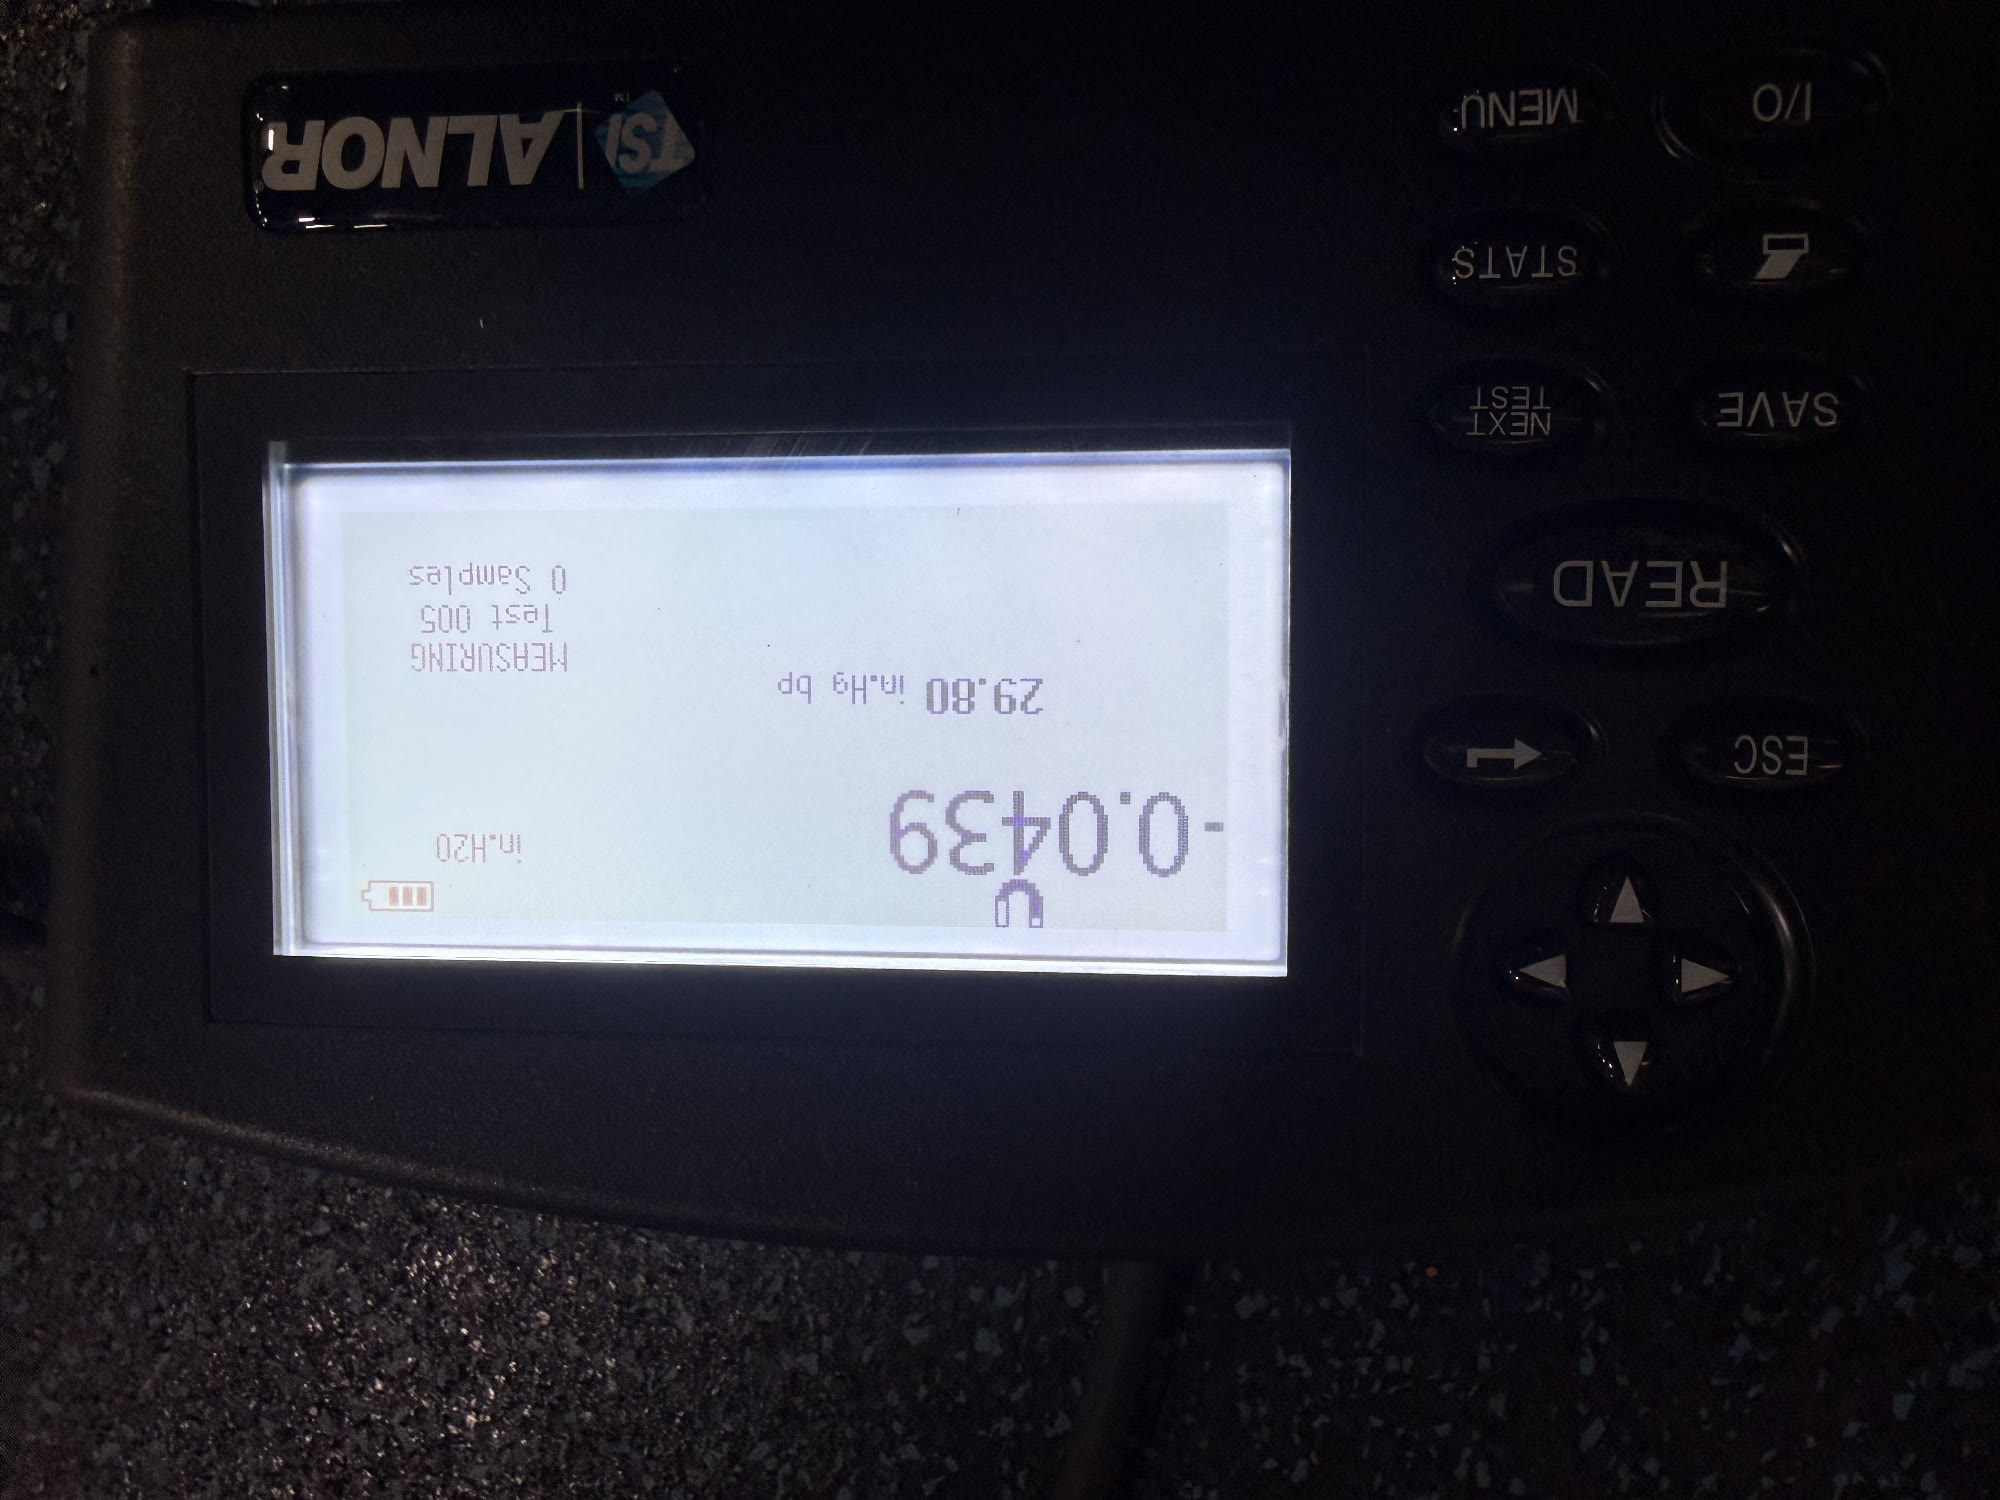
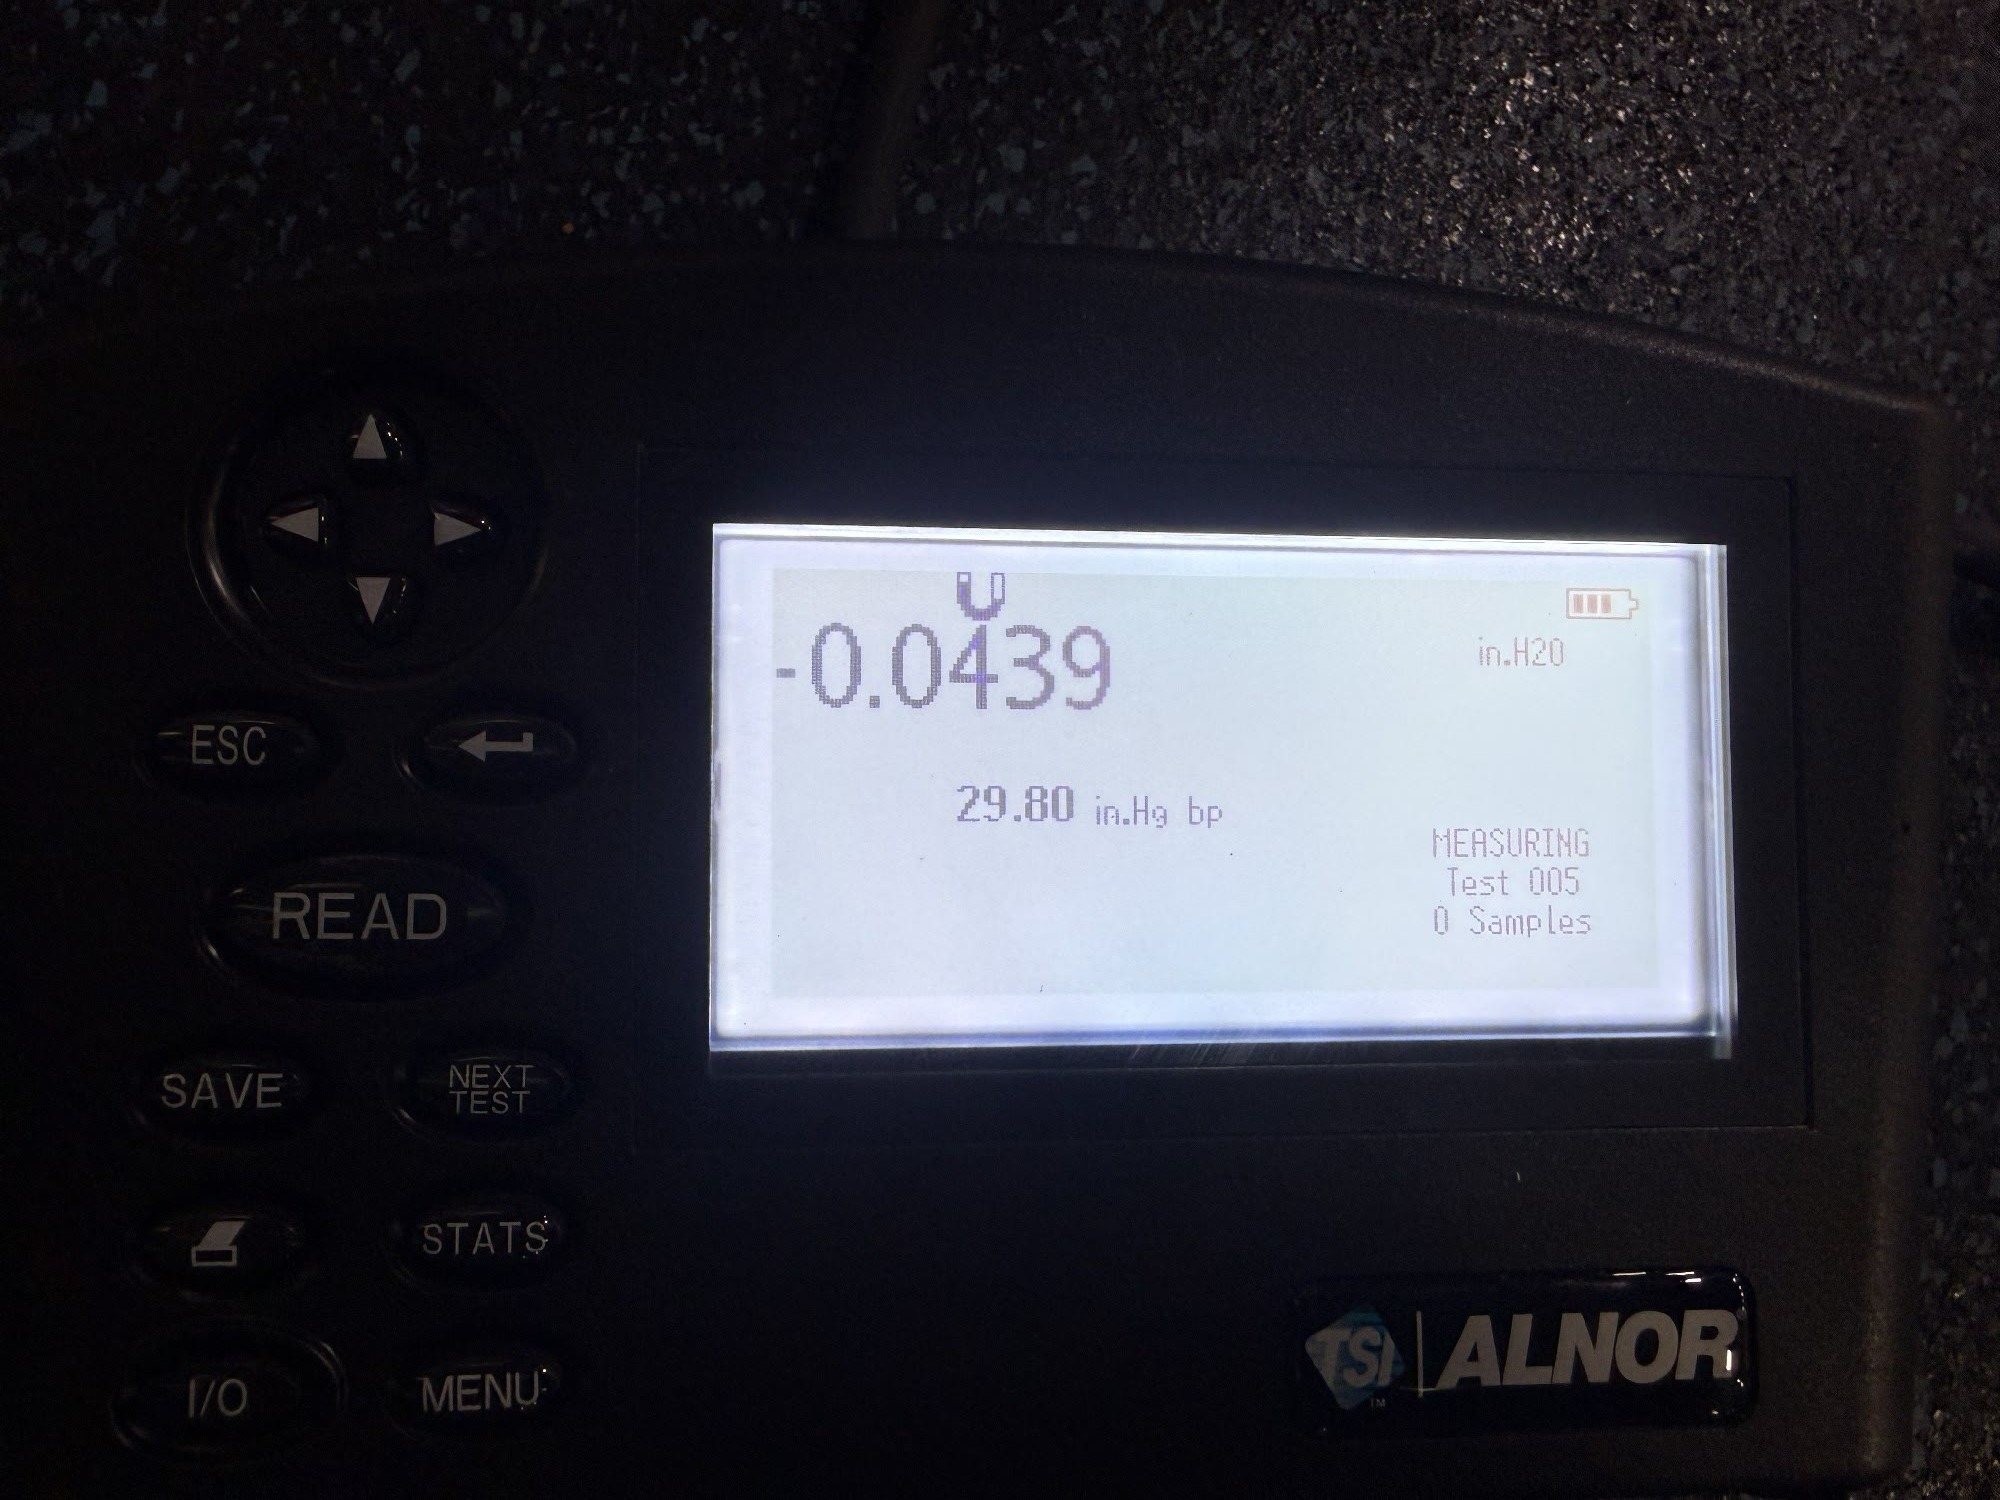
feat: owner-directed refinement pass across home, about, TAB and maintenance

diff --git a/src/styles/global.css b/src/styles/global.css
@@ -1772,14 +1772,6 @@ body.nav-open {
   }
 }
 
-/* Two-column phones: the trailing & More tile spans the row instead of
-   sitting alone in the last cell. */
-@media (max-width: 39.99em) {
-  .brand-box--more {
-    grid-column: 1 / -1;
-  }
-}
-
 @media (min-width: 64em) {
   .brand-list {
     grid-template-columns: repeat(3, minmax(0, 1fr));
@@ -1827,8 +1819,8 @@ body.nav-open {
   opacity: 0.85;
 }
 
-/* TAB field photos: asymmetric editorial layout so portrait and landscape
-   photographs keep their natural aspect without stretched empty cards. */
+/* TAB field photos: three matched proof cards — stacked on mobile, two up on
+   tablet with the third spanning, three across on desktop (one coherent set). */
 .tab-visuals {
   display: grid;
   gap: var(--sp-md);
@@ -1836,11 +1828,23 @@ body.nav-open {
   margin-top: var(--sp-lg);
 }
 
-/* Equal columns: both field photographs share one consistent card shape, so
-   the gallery reads as a balanced pair on desktop and stacks on mobile. */
 @media (min-width: 48em) {
   .tab-visuals {
     grid-template-columns: repeat(2, minmax(0, 1fr));
+  }
+
+  .tab-visuals > :last-child {
+    grid-column: 1 / -1;
+  }
+}
+
+@media (min-width: 64em) {
+  .tab-visuals {
+    grid-template-columns: repeat(3, minmax(0, 1fr));
+  }
+
+  .tab-visuals > :last-child {
+    grid-column: auto;
   }
 }
 
@@ -2424,7 +2428,7 @@ body.nav-open {
 
 @media (min-width: 48em) {
   .about-media-duo {
-    grid-template-columns: minmax(0, 1.5fr) minmax(0, 1fr);
+    grid-template-columns: repeat(2, minmax(0, 1fr));
     gap: var(--sp-lg);
     align-items: start;
   }
@@ -2442,7 +2446,7 @@ body.nav-open {
 }
 
 .about-media--truck img {
-  aspect-ratio: 5 / 4;
+  aspect-ratio: 1 / 1;
 }
 
 .about-media--portrait img {
@@ -3007,6 +3011,11 @@ body.nav-open {
   gap: 0.5rem;
 }
 
+/* The two-line About headline is authored with an intentional line break. */
+.about-hero-heading span {
+  white-space: pre-line;
+}
+
 .hero-flag {
   flex: none;
   width: auto;
@@ -3470,6 +3479,12 @@ body.nav-open {
   .evidence-strip {
     grid-template-columns: repeat(2, minmax(0, 1fr));
   }
+
+  /* An odd final item (e.g. three maintenance photos) spans the row instead
+     of leaving half a row empty. Even counts are unaffected. */
+  .evidence-strip > :last-child:nth-child(odd) {
+    grid-column: 1 / -1;
+  }
 }
 
 .evidence-figure,
@@ -3887,6 +3902,8 @@ body.nav-open {
   border-top: 1px solid var(--c-line-strong);
   border-radius: 0;
   padding: var(--sp-md) 0 var(--sp-xs);
+  justify-items: center;
+  text-align: center;
 }
 
 .tab-scope .fieldnote .card-icon {
@@ -3949,18 +3966,22 @@ body.nav-open {
 }
 
 .brand-grid {
-  display: grid;
-  gap: 1px;
-  background: var(--c-line);
-  border: 1px solid var(--c-line);
+  display: flex;
+  flex-wrap: wrap;
+  justify-content: center;
+  align-items: center;
+  gap: clamp(1.5rem, 3vw, 2.5rem) clamp(2rem, 5vw, 3.75rem);
+  background: none;
+  border: 0;
   margin-top: var(--sp-lg);
 }
 
 .brand-grid .brand-box {
-  background: var(--c-card);
+  background: none;
   border: 0;
   border-radius: 0;
-  min-height: 5.5rem;
+  min-height: 0;
+  padding: 0;
 }
 
 /* Quiet credibility line (hero + finale). */

diff --git a/src/content.config.ts b/src/content.config.ts
@@ -149,6 +149,9 @@ const siteIconEnum = z.enum([
   'users',
   'heart',
   'bulb',
+  'duct-traverse',
+  'pressure-diff',
+  'outside-air',
 ]);
 
 const site = defineCollection({

diff --git a/src/content/site/home.md b/src/content/site/home.md
@@ -12,16 +12,16 @@ metaDescription: >-
   Solutions.
 
 hero:
-  headline: Know what's wrong.
-  headlineAccent: Then decide what to do.
+  headline: HVAC Solutions for
+  headlineAccent: Every Problem
   headlineTail: ''
   lead: >-
     Locally owned heating, ventilation, and air-conditioning company serving
     Tampa Bay and surrounding counties. Our diagnostics are integral and
-    data-driven, our pricing is     reasonable, and the honor is OURS!
-  image: './images/package-unit-install.jpg'
-  imageAlt: 'Packaged unit set and connected at a residential service, with the supply transition sealed and secured'
-  imagePosition: '50% 45%'
+    data-driven, our pricing is affordable, and the honor is OURS!
+  image: './images/field-service-manifold-gauges.jpg'
+  imageAlt: 'Technician taking refrigerant-system readings with digital manifold gauges at an outdoor unit during a service visit'
+  imagePosition: '42% 45%'
 
 pricing:
   heading: Competitive Pricing. No Hidden Fees.
@@ -84,17 +84,18 @@ diagnostics:
         Control boards, wiring, capacitors, contactors, and sensors — traced
         methodically instead of parts-swapping at your expense.
     - icon: clipboard
-      title: Contaminants & System Condition
+      title: Refrigerants & Contaminants
       text: >-
-        Dirty coils, restricted filters, and poor duct connections quietly
-        raise pressures and cut capacity. We inspect the condition of the
-        equipment and the air path as part of every diagnosis.
+        Refrigerant charge and system behavior are checked against real
+        readings — and we look for the contaminants and conditions, from
+        moisture to dirt and wear, that quietly change how a system performs.
     - icon: badge
-      title: Pressure, Temperature & the Whole System
+      title: The Complete Picture
       text: >-
-        Airflow, pressures, temperatures, electrical operation, and refrigerant
-        behavior all affect one another. We read them together — the full
-        picture, not one number — before recommending anything.
+        No single number tells the whole story. We bring airflow and static
+        pressure, electrical and control operation, and refrigerant-system
+        condition together — that combined picture is what leads to an accurate
+        diagnosis and a recommendation you can act on.
   footnote:
     lead: Want the full story?
     linkLabel: More about the owner
@@ -125,7 +126,7 @@ workmanship:
   eyebrow: Workmanship
   heading: Quality Workmanship
   lead: >-
-    These photographs are from our jobs. They show the details that affect how a
+    These photographs demonstrate the attention to detail that affects how a
     system performs long after the installation is finished.
   cards:
     - title: Professional AC Installation
@@ -176,12 +177,12 @@ workmanship:
           alt: 'Failed electrical component after removal during a repair'
         - image: './images/unit-panel-diagnostics.jpg'
           alt: 'Outdoor unit panel removed with test instruments connected during diagnostics'
-        - image: './images/static-pressure-display.jpg'
-          alt: 'Instrument display showing a static-pressure reading during a diagnostic visit'
+        - image: './images/clamp-meter-reading.jpg'
+          alt: 'Clamp meter taking an amperage reading at system wiring during diagnostics'
         - image: './images/dirty-coil-detail.jpg'
           alt: 'Close view of a soiled coil photographed during an inspection'
-        - image: './images/micron-pull-evacuation.jpg'
-          alt: 'Vacuum gauge connected to a service port during system evacuation'
+        - image: './images/digital-manifold-readings.jpg'
+          alt: 'Digital manifold gauges showing refrigerant-system pressures during a diagnostic visit'
         - image: './images/dirty-condenser-coils.jpg'
           alt: 'Soiled condenser coil photographed during service'
         - image: './images/recovery-machine-reading.jpg'
@@ -190,24 +191,22 @@ workmanship:
       linkHref: /tab-commissioning-support/
       images:
         - image: './images/airflow-measurement-at-grille.jpg'
-          alt: 'Instrument taking an airflow reading at a supply grille during TAB field work'
+          alt: 'Total building exhaust measured at an exhaust terminal louver during TAB field work'
           position: '50% 48%'
         - image: './images/rooftop-mechanical-equipment.jpg'
           alt: 'Rooftop commercial HVAC equipment with service access panels on a flat roof'
         - image: './images/commercial-rooftop-walkway.jpg'
           alt: 'Rooftop walkway between commercial mechanical units during a TAB visit'
-        - image: './images/clip-static-pressure-poster.jpg'
-          alt: 'Static-pressure instrument display during a balancing visit'
         - image: './images/commercial-rooftop-unit.jpg'
           alt: 'Packaged commercial rooftop unit during a testing and balancing visit'
+        - image: './images/commercial-ahu-field-work.jpg'
+          alt: 'Commercial air-handling equipment during a TAB field visit'
         - image: './images/equipment-control-wiring.jpg'
           alt: 'Low-voltage control wiring at commercial equipment during a TAB visit'
         - image: './images/building-pressure-manometer.jpg'
           alt: 'Digital manometer taking a building-pressure reading inside a commercial facility'
-        - image: './images/pressure-reading-commercial.jpg'
-          alt: 'Instrument display showing a pressure reading during a commercial TAB visit'
-        - image: './images/airside-measurement-report.jpg'
-          alt: 'Air-side psychrometric measurement report captured during a commercial TAB visit'
+        - image: './images/metal-duct-interior.jpg'
+          alt: 'Interior of a metal duct photographed during system verification'
         - image: './images/psychrometric-measurement-report.jpg'
           alt: 'Psychrometric measurement report from a commercial testing and balancing visit'
         - image: './images/vfd-motor-readings.jpg'

diff --git a/src/content/site/tab.md b/src/content/site/tab.md
@@ -28,17 +28,17 @@ services:
       text: >-
         Measured airflow at grilles, registers, and diffusers, with balancing
         performed to the agreed targets.
-    - icon: activity
+    - icon: duct-traverse
       title: Duct traverses
       text: >-
         Duct traverses for airflow quantities where direct measurement at terminals
         is not enough.
-    - icon: sun
+    - icon: outside-air
       title: Outside-air verification
       text: >-
         Verification of outside-air quantities against the requirements for your
         building.
-    - icon: shield
+    - icon: pressure-diff
       title: Building-pressure checks
       text: >-
         Building-pressure measurements to find pressurization and ventilation
@@ -93,18 +93,17 @@ visuals:
   eyebrow: From the Field
   heading: Field measurement and system verification
   lead: >-
-    Photographs from recent field work: airflow measurement, mechanical equipment,
-    and ductwork. Instrument readings and reports are part of every accepted scope.
+    Reports and photographs of instrument readings and all job conditions are
+    part of every accepted scope.
   photos:
     - image: './images/airflow-measurement-at-grille.jpg'
-      alt: 'Instrument taking an airflow reading at a supply grille during TAB field work'
-      caption: 'Airflow measurement at a supply grille.'
+      alt: 'Total building exhaust measured at an exhaust terminal louver with an airflow instrument during TAB field work'
+      caption: 'Total building exhaust measured at an exhaust terminal louver.'
       position: '50% 48%'
     - image: './images/rooftop-mechanical-equipment.jpg'
       alt: 'Rooftop mechanical equipment on a commercial project site'
       caption: 'Rooftop mechanical equipment on a commercial site.'
-  clip:
-    src: '/videos/static-pressure-balancing.mp4'
-    poster: './images/clip-static-pressure-poster.jpg'
-    caption: 'Static pressure readings during a balancing visit.'
+    - image: './images/commercial-ahu-field-work.jpg'
+      alt: 'Commercial air-handling equipment during a TAB field visit'
+      caption: 'Commercial air-handling equipment during a TAB field visit.'
 ---

diff --git a/src/content/services/ac-maintenance.md b/src/content/services/ac-maintenance.md
@@ -13,13 +13,15 @@ icon: shield
 order: 3
 evidence:
   photos:
-    - image: '../site/images/filter-rack-maintenance.jpg'
-      alt: 'Return air filter rack with filters installed, checked during a maintenance visit'
-      caption: 'The return filter rack during a maintenance visit. Filter condition is part of the evaluation.'
-  clip:
-    src: '/videos/air-handler-service.mp4'
-    poster: '../site/images/clip-air-handler-poster.jpg'
-    caption: 'Inside the air handler during a maintenance visit.'
+    - image: '../site/images/dirty-evaporator-coil.jpg'
+      alt: 'Grimy evaporator coil and cabinet interior photographed during a maintenance visit'
+      caption: 'Coil condition inside the cabinet — what maintenance is meant to stay ahead of.'
+    - image: '../site/images/dirty-return-filter.jpg'
+      alt: 'Heavily soiled pleated return-air filter in its grille'
+      caption: 'A return filter at the end of its service life.'
+    - image: '../site/images/coil-cleaning-wash.jpg'
+      alt: 'Hand holding a hose spraying water across an outdoor coil during cleaning'
+      caption: 'Outdoor coil cleaning during a maintenance visit.'
 ---
 
 ## Premium AC Maintenance — $75 per system, per visit

diff --git a/src/content/site/about.md b/src/content/site/about.md
@@ -11,11 +11,13 @@ metaDescription: >-
 
 hero:
   eyebrow: About
-  heading: Proudly American. Owner-Operated.
+  heading: |-
+    Traditional American
+    Traditional Values
   lead: >-
-    Owner-operated HVAC service in Spring Hill, built on a simple idea: the
-    person standing in your home should be worth the trust you have no choice
-    but to place in them.
+    Owner-operated HVAC service in Spring Hill, built on traditional American
+    values: discipline, integrity, and sacrifice. We make it a point to treat
+    our community as family.
 
 # Story sections render in order; the first heading anchors the section.
 story:
